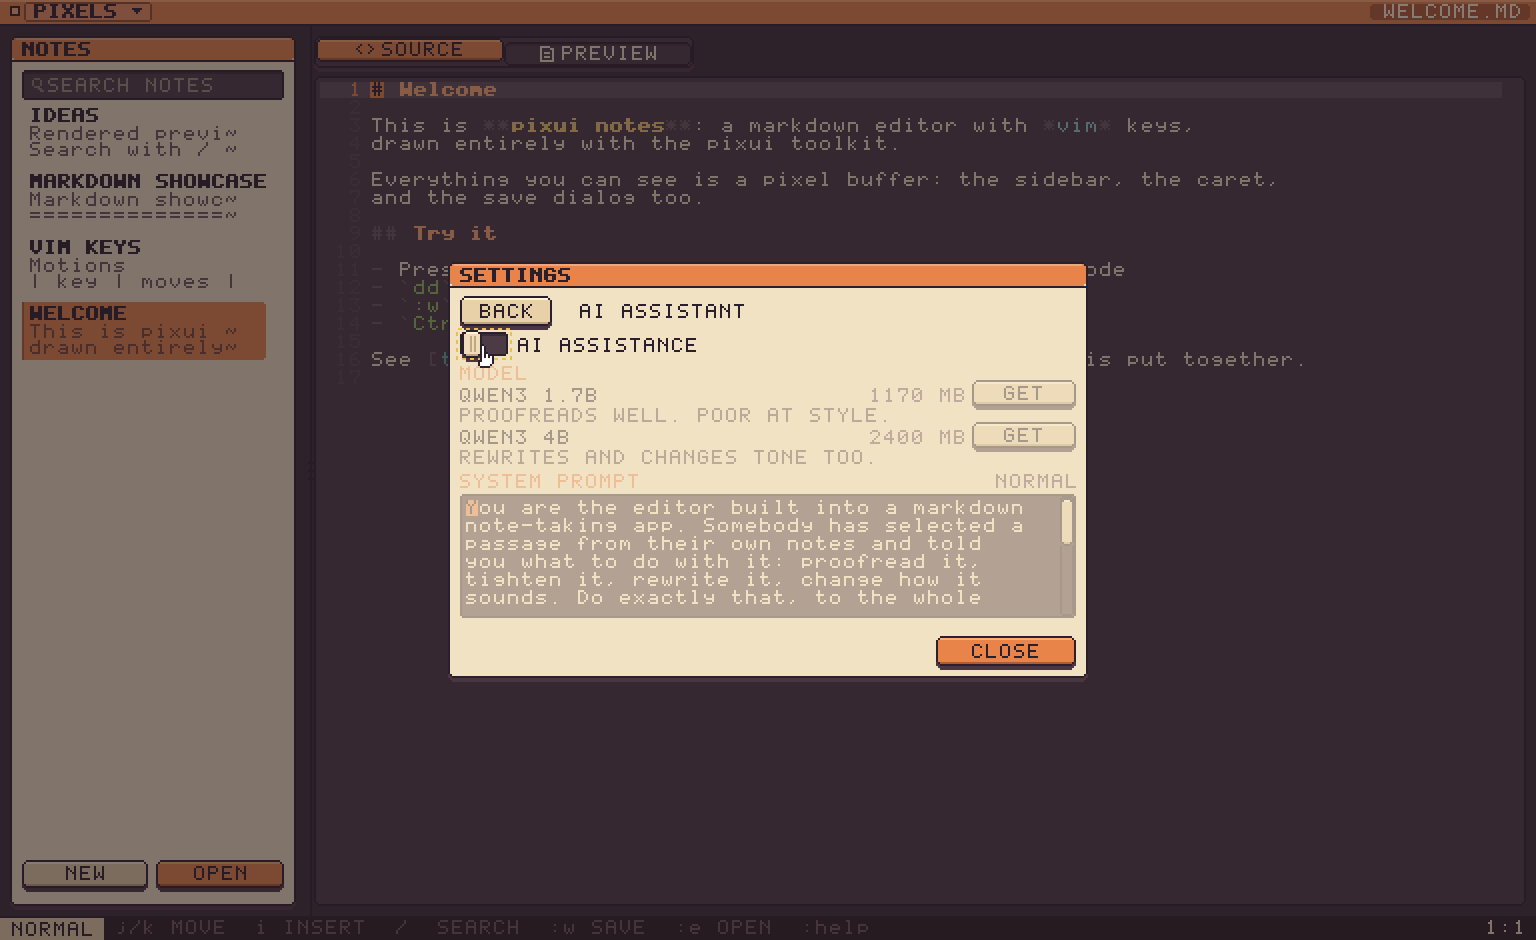
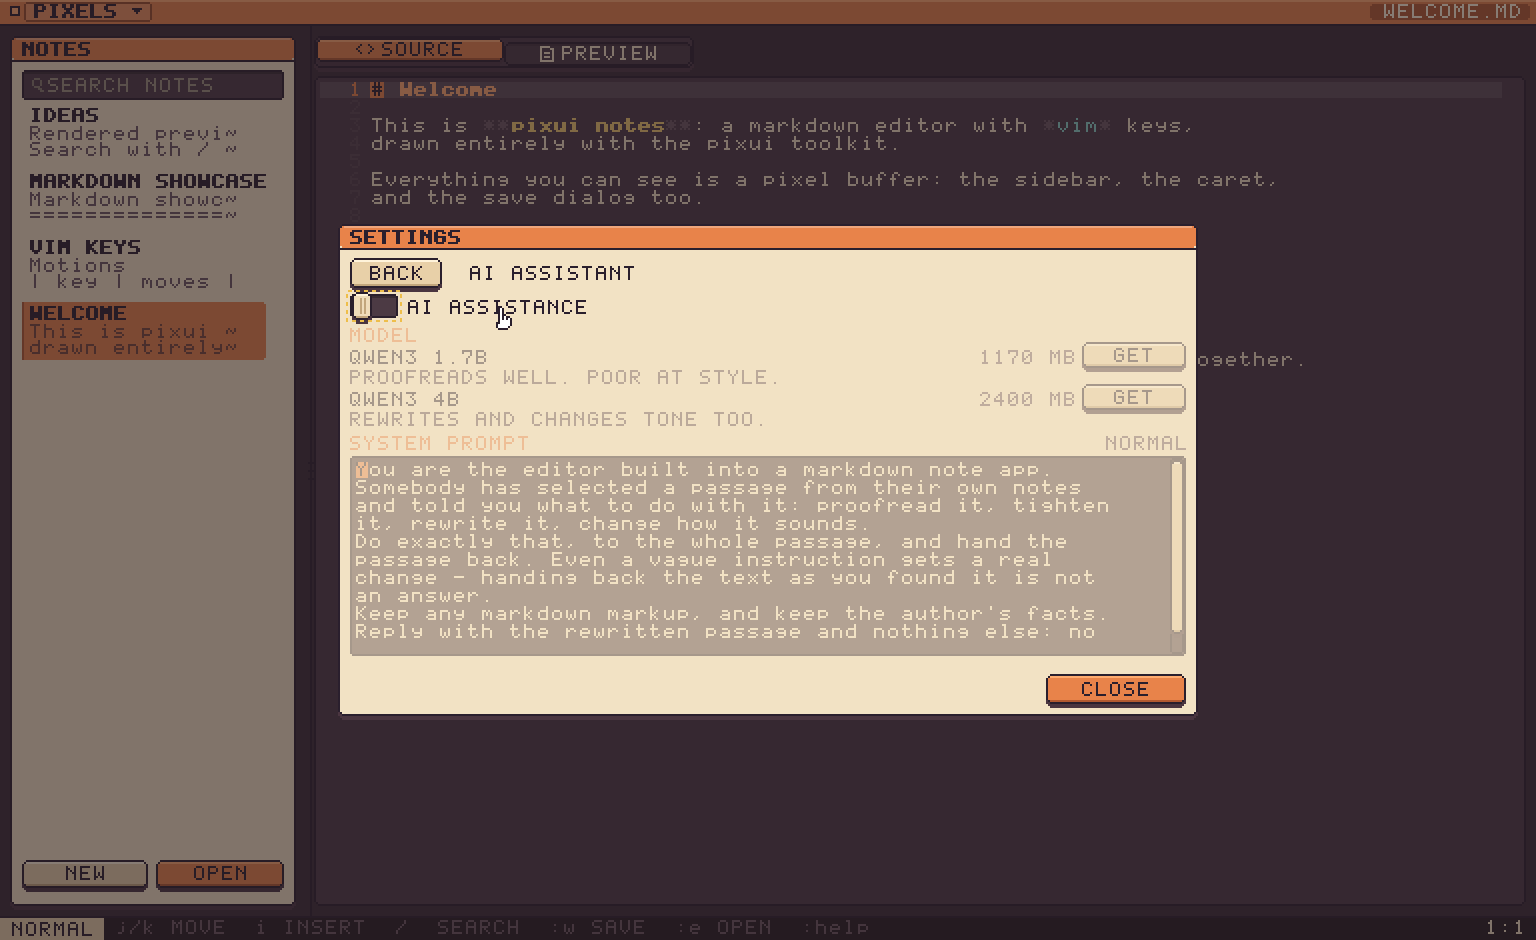
Give the prompt real lines, and the panel room to work in
The default prompt was one long line, which is fine for a model and wrong for a
vim editor: with nothing but wrapped rows there is nothing for j and k to move
between, and every edit is a hunt along a single paragraph. It is stored across
several lines now, flush left, because a string literal keeps whatever
indentation it is given and the model reads it.

The settings panel was sized for a notification and is a place of work: 430
wide with a hundred pixels of prompt, which is most of it at once and room to
move around in. About keeps the narrower panel, having only something to say.

The screenshot scenes are re-aimed at the controls' new places.

Changed region(s): [[0.2188, 0.216, 0.7812, 0.7713]]

diff --git a/src/settings.rs b/src/settings.rs
@@ -9,18 +9,27 @@ use std::path::{Path, PathBuf};
 
 /// What the model is told it is doing, before it is told what to do.
 ///
+/// Written on several lines and stored that way, because it is edited in a vim
+/// editor: with the whole thing on one line there is nothing for `j` and `k` to
+/// move between, and every edit is a hunt along a single wrapped paragraph.
+/// Flush left, because a string literal keeps whatever indentation it is given
+/// and the model would be reading it.
+///
 /// Everything here was learned the hard way. Telling it the job stops it
 /// answering "what is this text?" with the text; saying that handing the
 /// passage back is not an answer stops a vague instruction returning nothing;
 /// naming markdown stops it eating the markup.
-pub const DEFAULT_PROMPT: &str = "You are the editor built into a markdown \
-note-taking app. Somebody has selected a passage from their own notes and told \
-you what to do with it: proofread it, tighten it, rewrite it, change how it \
-sounds. Do exactly that, to the whole passage, and hand the passage back. Even \
-a vague instruction gets a real change - handing back the text as you found it \
-is not an answer. Keep any markdown markup, and keep the author's facts. Reply \
-with the rewritten passage and nothing else: no preamble, no explanation, no \
-quotes, no code fences.";
+pub const DEFAULT_PROMPT: &str = "You are the editor built into a markdown note app.
+Somebody has selected a passage from their own notes
+and told you what to do with it: proofread it, tighten
+it, rewrite it, change how it sounds.
+Do exactly that, to the whole passage, and hand the
+passage back. Even a vague instruction gets a real
+change - handing back the text as you found it is not
+an answer.
+Keep any markdown markup, and keep the author's facts.
+Reply with the rewritten passage and nothing else: no
+preamble, no explanation, no quotes, no code fences.";
 
 /// Weights the app knows how to fetch.
 ///

diff --git a/src/shots.rs b/src/shots.rs
@@ -481,7 +481,7 @@ pub fn run() -> std::io::Result<()> {
             clicks: vec![
                 Point::new(64, 21),
                 Point::new(383, 222),
-                Point::new(241, 172),
+                Point::new(250, 153),
             ],
             then: vec![],
             settle: 12,
@@ -500,8 +500,8 @@ pub fn run() -> std::io::Result<()> {
             clicks: vec![
                 Point::new(64, 21),
                 Point::new(383, 222),
-                Point::new(241, 172),
-                Point::new(503, 325),
+                Point::new(250, 153),
+                Point::new(558, 344),
             ],
             then: keys("jjVj"),
             settle: 12,
@@ -517,7 +517,7 @@ pub fn run() -> std::io::Result<()> {
             double_click: false,
             drag: None,
             wheel: 0.0,
-            clicks: vec![Point::new(64, 21), Point::new(503, 308)],
+            clicks: vec![Point::new(64, 21), Point::new(558, 257)],
             then: vec![],
             settle: 14,
             canvas: (768, 470),

diff --git a/src/panels.rs b/src/panels.rs
@@ -226,16 +226,20 @@ pub struct Chrome {
     pub notice: String,
 }
 
-const WIDTH: i32 = 320;
-/// Room for the prompt: enough of it to read without scrolling.
-const PROMPT_H: i32 = 62;
+/// Wide enough to edit a prompt in. The panel is a place of work, not a
+/// notification, and the prompt inside it is a paragraph.
+const WIDTH: i32 = 430;
+/// A narrower panel for the one that only has something to say.
+const ABOUT_W: i32 = 330;
+/// Room for the prompt: most of it at once, and room to move around in.
+const PROMPT_H: i32 = 100;
 
 /// What the app is, and which build of it this is.
 pub fn about(ui: &mut Ui) -> bool {
     let screen = ui.canvas.bounds();
     ui.canvas
         .fill_rect_blend(screen, pixui::palette::VOID, 0.55);
-    let rect = screen.centered(WIDTH, 150);
+    let rect = screen.centered(ABOUT_W, 150);
     let inner = ui.panel(rect, "ABOUT");
     ui.capture_keyboard();
 

diff --git a/README.md b/README.md
@@ -229,6 +229,11 @@ word in it and `u` undoes that, and the mode shows beside the heading. A
 settings field that cannot do what the rest of the app does is a settings field
 you have to think about.
 
+The default prompt is stored across several lines rather than as one long one,
+because it is edited in a vim editor: with the whole thing on a single line
+there is nothing for `j` and `k` to move between, and every edit becomes a hunt
+along one wrapped paragraph.
+
 All three settle in `~/.config/pixui-notes/settings.conf` — two keys, written by
 hand, because a dependency that can parse anything is a strange price to pay for
 that. `PIXUI_CONFIG` moves the file and `PIXUI_MODELS` moves the weights folder;
